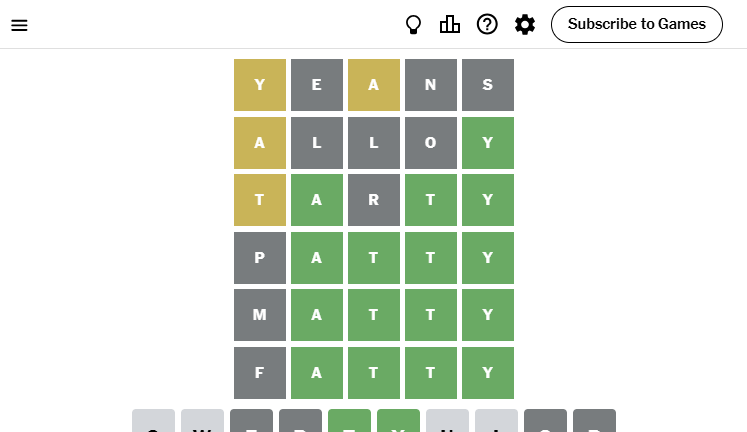
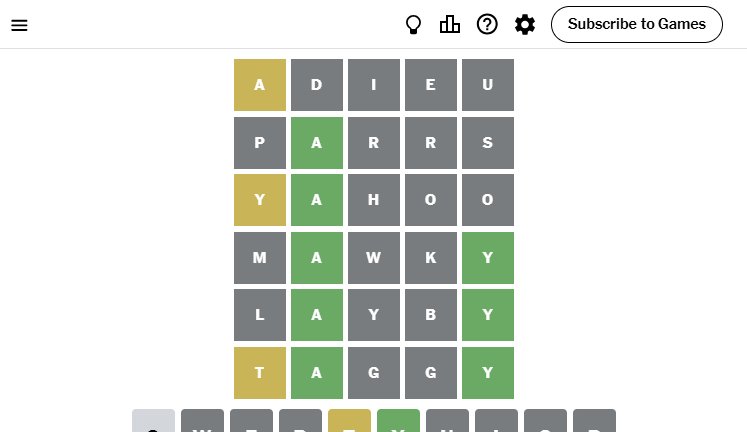
Games now start with a random weighted word

diff --git a/wordle.py b/wordle.py
@@ -60,8 +60,6 @@ class Wordle:
             browser_game = True
         if word is None:
             word = "adieu"
-        if starting_guess_word is None:
-            starting_guess_word = "adieu"
         if save_picture is None:
             save_picture = True
         if debug is None:
@@ -73,6 +71,7 @@ class Wordle:
         self.debug = debug
         self.save_picture = save_picture
         self.browser_game = browser_game
+        self.starting_guess_word = None
 
         if self.browser_game:
             if self.print_statements:
@@ -98,7 +97,6 @@ class Wordle:
         else:
             self.WORD = word
 
-        self.starting_guess_word = starting_guess_word
         self.word_delta = word_delta
         self.guesses = 0
         self.history = []
@@ -141,6 +139,11 @@ class Wordle:
         if self.print_statements:
             if self.dictionary is not None:
                 print("Loaded dictionaries.")
+        
+        
+        if starting_guess_word is None:
+            starting_guess_word = self.avg_weighted_word()
+        self.starting_guess_word = starting_guess_word
 
     def __exit__(self, exc_type, exc_val, exc_tb):
         if self.browser_game:
